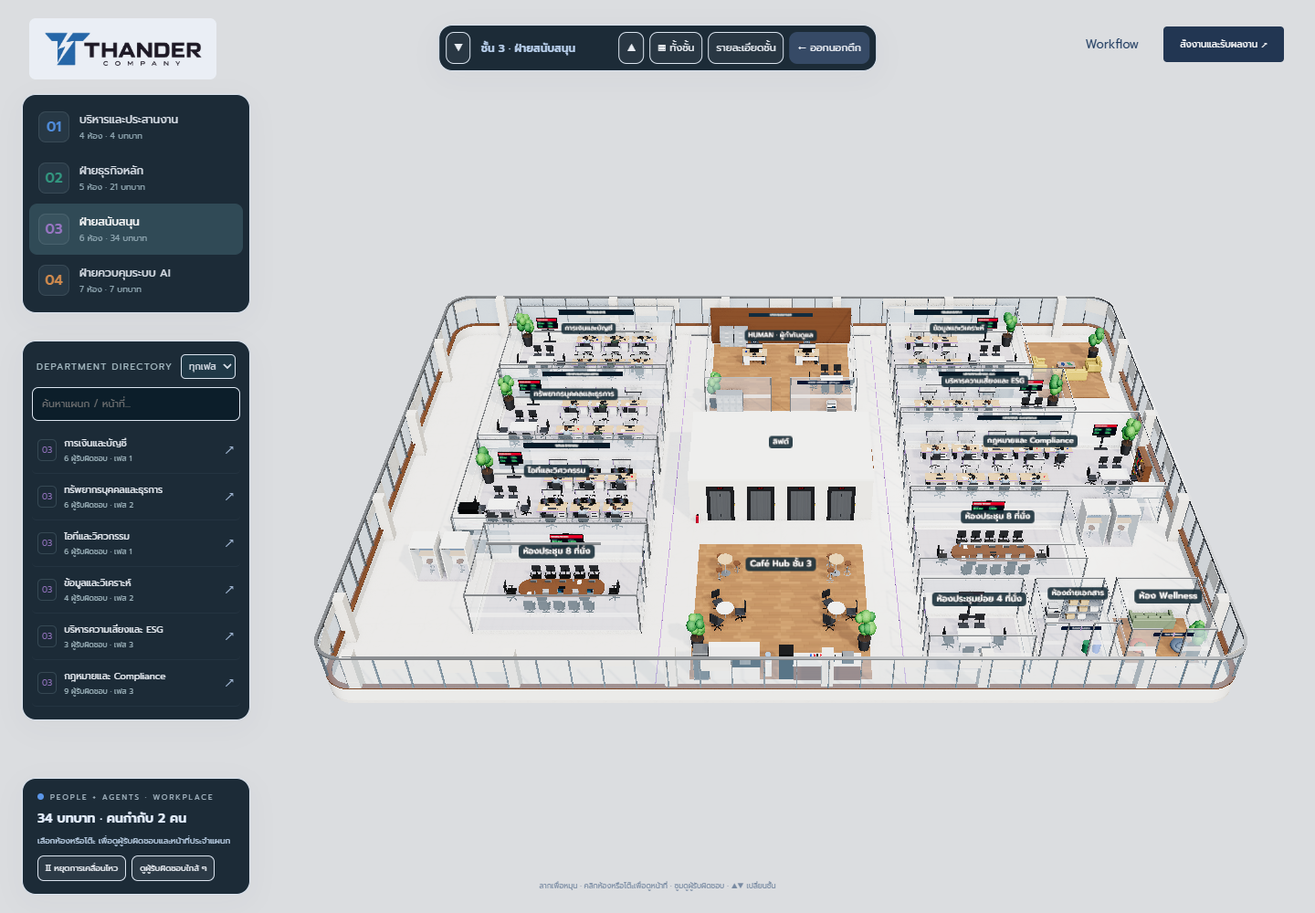
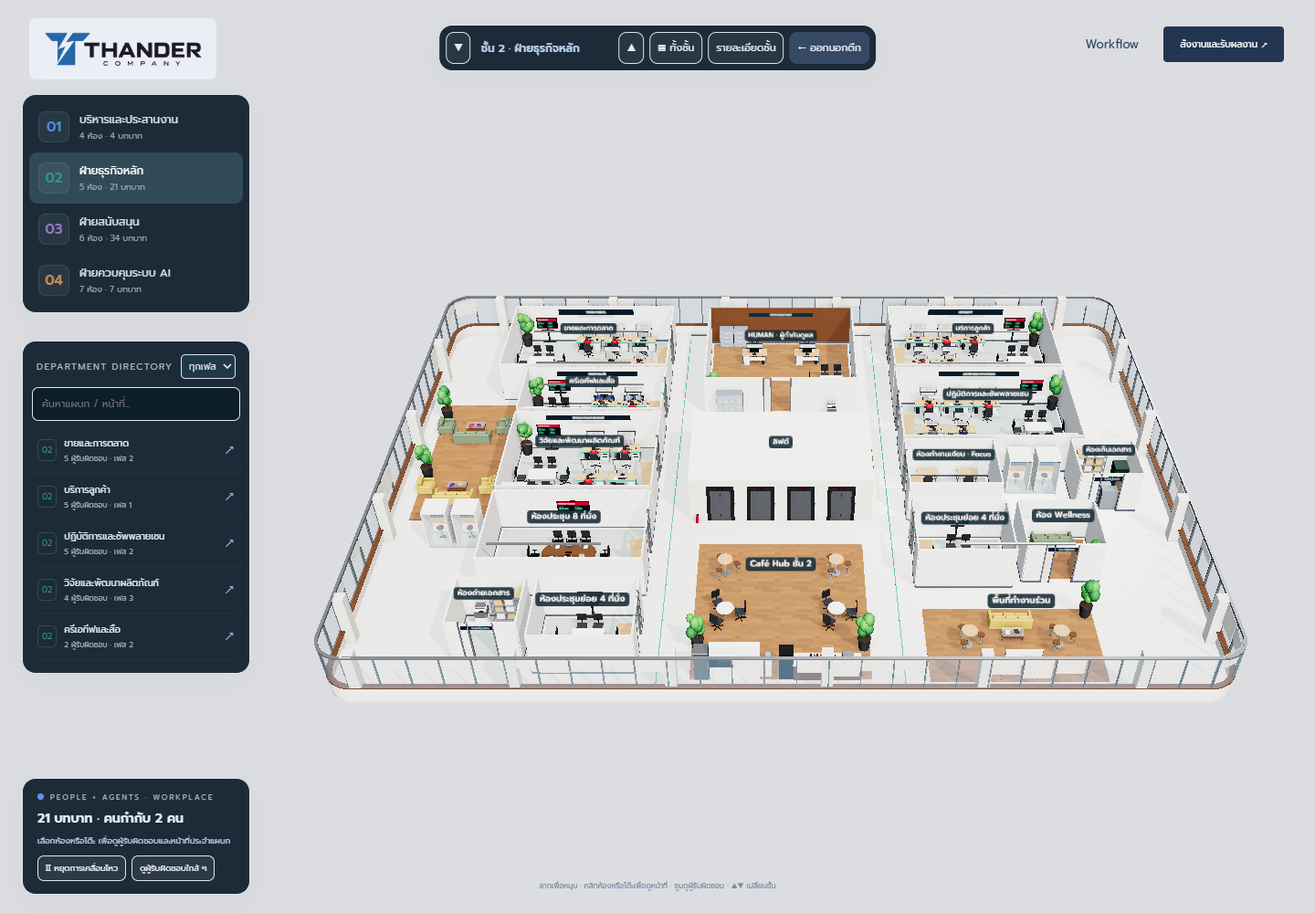
Update THANDER HQ: solid walls, one meeting room per floor, split homepage

diff --git a/Portfolio.html b/Portfolio.html
@@ -3445,7 +3445,7 @@ a:focus-visible, button:focus-visible, input:focus-visible { outline: 2px solid 
           <div style="padding:1.75rem;">
             <span style="display:inline-block;font-size:0.68rem;font-weight:700;letter-spacing:0.12em;color:#93bfff;border:1px solid #93bfff44;border-radius:99px;padding:0.25rem 0.75rem;margin-bottom:1rem;">3D Campus · Workflow · CEO Workspace</span>
             <h3 class="bento-title" style="margin-bottom:0.65rem;">THANDER Company</h3>
-            <p style="font-size:0.9rem;line-height:1.85;color:rgba(248,250,252,0.72);margin:0 0 1.25rem;">สำนักงานใหญ่ 3D ออกแบบใหม่ระดับบริษัทชั้นนำ 4 ชั้น 12 ฝ่าย 66 บทบาท ขนาดห้องตามมาตรฐานออฟฟิศจริง มีล็อบบี้ ห้องประชุม Phone Booth และ Café ทุกชั้น พนักงานเดินไปมาระหว่างแผนกตลอดเวลา และหน้าแรกเห็นคนทำงานผ่านกระจกกับคนเดินเข้า–ออกอาคาร พนักงานทุกคนมีชื่อและชื่อเล่น (สมมติ) บนป้ายตั้งสองหน้าขนาดใหญ่ รูปร่างและการแต่งกายสมจริงตามเพศ และมีบทสนทนาขึ้นเป็นข้อความทุกครั้งที่เดินมารับหรือส่งงานกับ CEO พร้อมคติ “คิดให้ไกล สร้างให้จริง ก้าวสู่อนาคต” ปรับอาคารเป็น 44×32 เมตร ห้องและโต๊ะมีขนาดตามจำนวนคน เพิ่มฝ่ายครีเอทีฟและสื่อชั้น 2 พร้อมกราฟิกดีไซเนอร์และนักตัดต่อวิดีโอ มีโต๊ะ จอออกแบบและไทม์ไลน์ประจำตัว พับกรอบรายละเอียดเพื่อเห็นผังภายในครบทุกชั้น เปิดดูแผนกและหน้าที่ได้เมื่อต้องการ มี Workflow และไดอะแกรม SVG อธิบายการทำงานทุกฝ่าย ห้อง CEO THANDER ชั้น 1 มี CEO ประจำห้องเพียงคนเดียว เมื่อสั่งงาน ตัวแทนแผนกเดินผ่านทางเดินและลิฟต์มารับโจทย์แล้วกลับโต๊ะ เมื่อผลงานพร้อมตรวจจะกลับมานำเสนอ พร้อมเปิดคำตอบและไฟล์ให้ CEO ตรวจรับ มีปุ่มลองฉากตัวอย่างโดยไม่เรียก AI เชื่อมพื้นที่ทำงานส่วนตัว มีตัวเลขสรุป ค้นหา กรอง ลบงาน และกู้คืนจากถังขยะ สั่งงานครีเอทีฟได้เป็นแบบกราฟิก HTML, Storyboard และแผนตัดต่อ (ยังไม่เรนเดอร์ MP4) พร้อมสั่งงาน Gemini ขอแก้ไข ตรวจรับ และดาวน์โหลดไฟล์ภาษาไทยสำหรับ Excel กำหนดวันรับงานแบบวัน/เดือน/ปี พ.ศ. เช่น 21/10/2569 แนบเอกสารอ้างอิงสูงสุด 3 ไฟล์ รวม 10 MB ผ่านพื้นที่ส่วนตัว พร้อมแสดงขนาดและความคืบหน้า มีตัวอย่างแผนคอนเทนต์ 7 วันให้ทดลองโดยไม่ใช้ AI ส่วนงาน AI จริงใช้โควต้า Free Tier ของโปรเจกต์ Google ที่ไม่เปิด Billing และไม่สลับไป OpenAI</p>
+            <p style="font-size:0.9rem;line-height:1.85;color:rgba(248,250,252,0.72);margin:0 0 1.25rem;">สำนักงานใหญ่ 3D ออกแบบใหม่ระดับบริษัทชั้นนำ 4 ชั้น 12 ฝ่าย 66 บทบาท ขนาดห้องตามมาตรฐานออฟฟิศจริง มีล็อบบี้ ห้องประชุมชั้นละห้อง (12/8/6 ที่นั่ง) ผนังห้องและผนังอาคารแบบทึบ Phone Booth และ Café ทุกชั้น พนักงานเดินไปมาระหว่างแผนกตลอดเวลา หน้าแรกแบ่งฝั่งข้อความกับภาพ 3D ไม่ทับกัน และมีคนเดินเข้า–ออกอาคาร พนักงานทุกคนมีชื่อและชื่อเล่น (สมมติ) บนป้ายตั้งสองหน้าขนาดใหญ่ รูปร่างและการแต่งกายสมจริงตามเพศ และมีบทสนทนาขึ้นเป็นข้อความทุกครั้งที่เดินมารับหรือส่งงานกับ CEO พร้อมคติ “คิดให้ไกล สร้างให้จริง ก้าวสู่อนาคต” ปรับอาคารเป็น 44×32 เมตร ห้องและโต๊ะมีขนาดตามจำนวนคน เพิ่มฝ่ายครีเอทีฟและสื่อชั้น 2 พร้อมกราฟิกดีไซเนอร์และนักตัดต่อวิดีโอ มีโต๊ะ จอออกแบบและไทม์ไลน์ประจำตัว พับกรอบรายละเอียดเพื่อเห็นผังภายในครบทุกชั้น เปิดดูแผนกและหน้าที่ได้เมื่อต้องการ มี Workflow และไดอะแกรม SVG อธิบายการทำงานทุกฝ่าย ห้อง CEO THANDER ชั้น 1 มี CEO ประจำห้องเพียงคนเดียว เมื่อสั่งงาน ตัวแทนแผนกเดินผ่านทางเดินและลิฟต์มารับโจทย์แล้วกลับโต๊ะ เมื่อผลงานพร้อมตรวจจะกลับมานำเสนอ พร้อมเปิดคำตอบและไฟล์ให้ CEO ตรวจรับ มีปุ่มลองฉากตัวอย่างโดยไม่เรียก AI เชื่อมพื้นที่ทำงานส่วนตัว มีตัวเลขสรุป ค้นหา กรอง ลบงาน และกู้คืนจากถังขยะ สั่งงานครีเอทีฟได้เป็นแบบกราฟิก HTML, Storyboard และแผนตัดต่อ (ยังไม่เรนเดอร์ MP4) พร้อมสั่งงาน Gemini ขอแก้ไข ตรวจรับ และดาวน์โหลดไฟล์ภาษาไทยสำหรับ Excel กำหนดวันรับงานแบบวัน/เดือน/ปี พ.ศ. เช่น 21/10/2569 แนบเอกสารอ้างอิงสูงสุด 3 ไฟล์ รวม 10 MB ผ่านพื้นที่ส่วนตัว พร้อมแสดงขนาดและความคืบหน้า มีตัวอย่างแผนคอนเทนต์ 7 วันให้ทดลองโดยไม่ใช้ AI ส่วนงาน AI จริงใช้โควต้า Free Tier ของโปรเจกต์ Google ที่ไม่เปิด Billing และไม่สลับไป OpenAI</p>
             <div style="display:flex;flex-wrap:wrap;gap:0.4rem;margin-bottom:1.5rem;">
               <span style="font-size:0.7rem;padding:0.25rem 0.7rem;border:1px solid #93bfff4d;color:#93bfff;border-radius:99px;">Three.js</span><span style="font-size:0.7rem;padding:0.25rem 0.7rem;border:1px solid #93bfff4d;color:#93bfff;border-radius:99px;">Gemini API</span><span style="font-size:0.7rem;padding:0.25rem 0.7rem;border:1px solid #93bfff4d;color:#93bfff;border-radius:99px;">Vercel Functions</span><span style="font-size:0.7rem;padding:0.25rem 0.7rem;border:1px solid #93bfff4d;color:#93bfff;border-radius:99px;">Private Blob</span>
             </div>
@@ -3458,7 +3458,7 @@ a:focus-visible, button:focus-visible, input:focus-visible { outline: 2px solid 
               <a href="https://thander-company-ai-campus.vercel.app/#room=B-5" target="_blank" rel="noopener" style="color:#93bfff;font-size:0.82rem;">เข้าห้องครีเอทีฟและสื่อ ↗</a>
               <a href="images/projects/thander-creative-studio.png" target="_blank" rel="noopener" style="color:#93bfff;font-size:0.82rem;">ดูภาพห้องกราฟิกและวิดีโอ ↗</a>
               <a href="https://thander-company-ai-campus.vercel.app/#floor=2" target="_blank" rel="noopener" style="color:#93bfff;font-size:0.82rem;">พบพนักงานทุกคนพร้อมชื่อ ↗</a>
-              <a href="images/projects/thander-hq-facade.png" target="_blank" rel="noopener" style="color:#93bfff;font-size:0.82rem;">ดูอาคารใหม่และคนทำงานผ่านกระจก ↗</a>
+              <a href="images/projects/thander-hq-facade.png" target="_blank" rel="noopener" style="color:#93bfff;font-size:0.82rem;">ดูอาคารใหม่ ↗</a>
               <a href="images/projects/thander-hq-lobby.png" target="_blank" rel="noopener" style="color:#93bfff;font-size:0.82rem;">ดูล็อบบี้ชั้น 1 ↗</a>
               <a href="images/projects/thander-floor-plan.png" target="_blank" rel="noopener" style="color:#93bfff;font-size:0.82rem;">ดูผังชั้นขนาดห้องจริง ↗</a>
               <a href="images/projects/thander-ceo-office.png" target="_blank" rel="noopener" style="color:#93bfff;font-size:0.82rem;">ดูห้อง CEO ใหม่ ↗</a>

diff --git a/index.html b/index.html
@@ -3445,7 +3445,7 @@ a:focus-visible, button:focus-visible, input:focus-visible { outline: 2px solid 
           <div style="padding:1.75rem;">
             <span style="display:inline-block;font-size:0.68rem;font-weight:700;letter-spacing:0.12em;color:#93bfff;border:1px solid #93bfff44;border-radius:99px;padding:0.25rem 0.75rem;margin-bottom:1rem;">3D Campus · Workflow · CEO Workspace</span>
             <h3 class="bento-title" style="margin-bottom:0.65rem;">THANDER Company</h3>
-            <p style="font-size:0.9rem;line-height:1.85;color:rgba(248,250,252,0.72);margin:0 0 1.25rem;">สำนักงานใหญ่ 3D ออกแบบใหม่ระดับบริษัทชั้นนำ 4 ชั้น 12 ฝ่าย 66 บทบาท ขนาดห้องตามมาตรฐานออฟฟิศจริง มีล็อบบี้ ห้องประชุม Phone Booth และ Café ทุกชั้น พนักงานเดินไปมาระหว่างแผนกตลอดเวลา และหน้าแรกเห็นคนทำงานผ่านกระจกกับคนเดินเข้า–ออกอาคาร พนักงานทุกคนมีชื่อและชื่อเล่น (สมมติ) บนป้ายตั้งสองหน้าขนาดใหญ่ รูปร่างและการแต่งกายสมจริงตามเพศ และมีบทสนทนาขึ้นเป็นข้อความทุกครั้งที่เดินมารับหรือส่งงานกับ CEO พร้อมคติ “คิดให้ไกล สร้างให้จริง ก้าวสู่อนาคต” ปรับอาคารเป็น 44×32 เมตร ห้องและโต๊ะมีขนาดตามจำนวนคน เพิ่มฝ่ายครีเอทีฟและสื่อชั้น 2 พร้อมกราฟิกดีไซเนอร์และนักตัดต่อวิดีโอ มีโต๊ะ จอออกแบบและไทม์ไลน์ประจำตัว พับกรอบรายละเอียดเพื่อเห็นผังภายในครบทุกชั้น เปิดดูแผนกและหน้าที่ได้เมื่อต้องการ มี Workflow และไดอะแกรม SVG อธิบายการทำงานทุกฝ่าย ห้อง CEO THANDER ชั้น 1 มี CEO ประจำห้องเพียงคนเดียว เมื่อสั่งงาน ตัวแทนแผนกเดินผ่านทางเดินและลิฟต์มารับโจทย์แล้วกลับโต๊ะ เมื่อผลงานพร้อมตรวจจะกลับมานำเสนอ พร้อมเปิดคำตอบและไฟล์ให้ CEO ตรวจรับ มีปุ่มลองฉากตัวอย่างโดยไม่เรียก AI เชื่อมพื้นที่ทำงานส่วนตัว มีตัวเลขสรุป ค้นหา กรอง ลบงาน และกู้คืนจากถังขยะ สั่งงานครีเอทีฟได้เป็นแบบกราฟิก HTML, Storyboard และแผนตัดต่อ (ยังไม่เรนเดอร์ MP4) พร้อมสั่งงาน Gemini ขอแก้ไข ตรวจรับ และดาวน์โหลดไฟล์ภาษาไทยสำหรับ Excel กำหนดวันรับงานแบบวัน/เดือน/ปี พ.ศ. เช่น 21/10/2569 แนบเอกสารอ้างอิงสูงสุด 3 ไฟล์ รวม 10 MB ผ่านพื้นที่ส่วนตัว พร้อมแสดงขนาดและความคืบหน้า มีตัวอย่างแผนคอนเทนต์ 7 วันให้ทดลองโดยไม่ใช้ AI ส่วนงาน AI จริงใช้โควต้า Free Tier ของโปรเจกต์ Google ที่ไม่เปิด Billing และไม่สลับไป OpenAI</p>
+            <p style="font-size:0.9rem;line-height:1.85;color:rgba(248,250,252,0.72);margin:0 0 1.25rem;">สำนักงานใหญ่ 3D ออกแบบใหม่ระดับบริษัทชั้นนำ 4 ชั้น 12 ฝ่าย 66 บทบาท ขนาดห้องตามมาตรฐานออฟฟิศจริง มีล็อบบี้ ห้องประชุมชั้นละห้อง (12/8/6 ที่นั่ง) ผนังห้องและผนังอาคารแบบทึบ Phone Booth และ Café ทุกชั้น พนักงานเดินไปมาระหว่างแผนกตลอดเวลา หน้าแรกแบ่งฝั่งข้อความกับภาพ 3D ไม่ทับกัน และมีคนเดินเข้า–ออกอาคาร พนักงานทุกคนมีชื่อและชื่อเล่น (สมมติ) บนป้ายตั้งสองหน้าขนาดใหญ่ รูปร่างและการแต่งกายสมจริงตามเพศ และมีบทสนทนาขึ้นเป็นข้อความทุกครั้งที่เดินมารับหรือส่งงานกับ CEO พร้อมคติ “คิดให้ไกล สร้างให้จริง ก้าวสู่อนาคต” ปรับอาคารเป็น 44×32 เมตร ห้องและโต๊ะมีขนาดตามจำนวนคน เพิ่มฝ่ายครีเอทีฟและสื่อชั้น 2 พร้อมกราฟิกดีไซเนอร์และนักตัดต่อวิดีโอ มีโต๊ะ จอออกแบบและไทม์ไลน์ประจำตัว พับกรอบรายละเอียดเพื่อเห็นผังภายในครบทุกชั้น เปิดดูแผนกและหน้าที่ได้เมื่อต้องการ มี Workflow และไดอะแกรม SVG อธิบายการทำงานทุกฝ่าย ห้อง CEO THANDER ชั้น 1 มี CEO ประจำห้องเพียงคนเดียว เมื่อสั่งงาน ตัวแทนแผนกเดินผ่านทางเดินและลิฟต์มารับโจทย์แล้วกลับโต๊ะ เมื่อผลงานพร้อมตรวจจะกลับมานำเสนอ พร้อมเปิดคำตอบและไฟล์ให้ CEO ตรวจรับ มีปุ่มลองฉากตัวอย่างโดยไม่เรียก AI เชื่อมพื้นที่ทำงานส่วนตัว มีตัวเลขสรุป ค้นหา กรอง ลบงาน และกู้คืนจากถังขยะ สั่งงานครีเอทีฟได้เป็นแบบกราฟิก HTML, Storyboard และแผนตัดต่อ (ยังไม่เรนเดอร์ MP4) พร้อมสั่งงาน Gemini ขอแก้ไข ตรวจรับ และดาวน์โหลดไฟล์ภาษาไทยสำหรับ Excel กำหนดวันรับงานแบบวัน/เดือน/ปี พ.ศ. เช่น 21/10/2569 แนบเอกสารอ้างอิงสูงสุด 3 ไฟล์ รวม 10 MB ผ่านพื้นที่ส่วนตัว พร้อมแสดงขนาดและความคืบหน้า มีตัวอย่างแผนคอนเทนต์ 7 วันให้ทดลองโดยไม่ใช้ AI ส่วนงาน AI จริงใช้โควต้า Free Tier ของโปรเจกต์ Google ที่ไม่เปิด Billing และไม่สลับไป OpenAI</p>
             <div style="display:flex;flex-wrap:wrap;gap:0.4rem;margin-bottom:1.5rem;">
               <span style="font-size:0.7rem;padding:0.25rem 0.7rem;border:1px solid #93bfff4d;color:#93bfff;border-radius:99px;">Three.js</span><span style="font-size:0.7rem;padding:0.25rem 0.7rem;border:1px solid #93bfff4d;color:#93bfff;border-radius:99px;">Gemini API</span><span style="font-size:0.7rem;padding:0.25rem 0.7rem;border:1px solid #93bfff4d;color:#93bfff;border-radius:99px;">Vercel Functions</span><span style="font-size:0.7rem;padding:0.25rem 0.7rem;border:1px solid #93bfff4d;color:#93bfff;border-radius:99px;">Private Blob</span>
             </div>
@@ -3458,7 +3458,7 @@ a:focus-visible, button:focus-visible, input:focus-visible { outline: 2px solid 
               <a href="https://thander-company-ai-campus.vercel.app/#room=B-5" target="_blank" rel="noopener" style="color:#93bfff;font-size:0.82rem;">เข้าห้องครีเอทีฟและสื่อ ↗</a>
               <a href="images/projects/thander-creative-studio.png" target="_blank" rel="noopener" style="color:#93bfff;font-size:0.82rem;">ดูภาพห้องกราฟิกและวิดีโอ ↗</a>
               <a href="https://thander-company-ai-campus.vercel.app/#floor=2" target="_blank" rel="noopener" style="color:#93bfff;font-size:0.82rem;">พบพนักงานทุกคนพร้อมชื่อ ↗</a>
-              <a href="images/projects/thander-hq-facade.png" target="_blank" rel="noopener" style="color:#93bfff;font-size:0.82rem;">ดูอาคารใหม่และคนทำงานผ่านกระจก ↗</a>
+              <a href="images/projects/thander-hq-facade.png" target="_blank" rel="noopener" style="color:#93bfff;font-size:0.82rem;">ดูอาคารใหม่ ↗</a>
               <a href="images/projects/thander-hq-lobby.png" target="_blank" rel="noopener" style="color:#93bfff;font-size:0.82rem;">ดูล็อบบี้ชั้น 1 ↗</a>
               <a href="images/projects/thander-floor-plan.png" target="_blank" rel="noopener" style="color:#93bfff;font-size:0.82rem;">ดูผังชั้นขนาดห้องจริง ↗</a>
               <a href="images/projects/thander-ceo-office.png" target="_blank" rel="noopener" style="color:#93bfff;font-size:0.82rem;">ดูห้อง CEO ใหม่ ↗</a>

diff --git a/README.md b/README.md
@@ -43,7 +43,7 @@
 
 | Project | Description |
 |---|---|
-| [THANDER Company](https://thander-company-ai-campus.vercel.app/) | สำนักงานใหญ่ 3D ออกแบบใหม่ระดับบริษัทชั้นนำ 4 ชั้น 12 ฝ่าย 66 บทบาท (ขนาดห้องตามมาตรฐาน ล็อบบี้ ห้องประชุม Café พนักงานเดินไปมาตลอดเวลา หน้าแรกเห็นคนผ่านกระจก) พนักงานทุกคนมีชื่อ/ชื่อเล่นสมมติบนป้ายตั้งขนาดใหญ่ การ์ด และการค้นหา ตัวละครสมจริงตามเพศ และบทสนทนาตอนเดินรับ–ส่งงานกับ CEO คติ “คิดให้ไกล สร้างให้จริง ก้าวสู่อนาคต” มุมมองมือถือใหญ่ขึ้น ผังทุกชั้นเห็นครบด้วยกรอบรายละเอียดที่พับได้ พร้อม [Workflow และหน้าที่แต่ละฝ่าย](https://thander-company-ai-campus.vercel.app/workflow.html#departmentDirectory) และห้องทำงาน CEO ส่วนตัวที่มีตัวเลขสรุป ค้นหาและกรองสถานะงาน ลบ/กู้คืนผ่านถังขยะ พร้อมฉากตัวแทนแผนกเดินมารับโจทย์และกลับมานำเสนอเมื่อผลงานพร้อมตรวจ พร้อมห้อง CEO THANDER ในชั้น 1 และฝ่ายครีเอทีฟและสื่อชั้น 2 (กราฟิกดีไซเนอร์/นักตัดต่อวิดีโอ) อาคาร 44×32 เมตร ห้องตามจำนวนคน สั่ง Gemini ขอแก้ไข ตรวจรับ และดาวน์โหลดภาษาไทยสำหรับ Excel รวม [ตัวอย่างสั่งงานแบบไม่เรียก AI](https://thander-company-ai-campus.vercel.app/workflow.html#practiceLab) (Free Tier ต้องใช้โปรเจกต์ Google ที่ไม่เปิด Billing; โควต้าตามบัญชี) (Private source) |
+| [THANDER Company](https://thander-company-ai-campus.vercel.app/) | สำนักงานใหญ่ 3D ออกแบบใหม่ระดับบริษัทชั้นนำ 4 ชั้น 12 ฝ่าย 66 บทบาท (ขนาดห้องตามมาตรฐาน ล็อบบี้ ห้องประชุมชั้นละห้อง ผนังทึบ Café พนักงานเดินไปมาตลอดเวลา หน้าแรกแบ่งฝั่งข้อความ/ภาพ 3D) พนักงานทุกคนมีชื่อ/ชื่อเล่นสมมติบนป้ายตั้งขนาดใหญ่ การ์ด และการค้นหา ตัวละครสมจริงตามเพศ และบทสนทนาตอนเดินรับ–ส่งงานกับ CEO คติ “คิดให้ไกล สร้างให้จริง ก้าวสู่อนาคต” มุมมองมือถือใหญ่ขึ้น ผังทุกชั้นเห็นครบด้วยกรอบรายละเอียดที่พับได้ พร้อม [Workflow และหน้าที่แต่ละฝ่าย](https://thander-company-ai-campus.vercel.app/workflow.html#departmentDirectory) และห้องทำงาน CEO ส่วนตัวที่มีตัวเลขสรุป ค้นหาและกรองสถานะงาน ลบ/กู้คืนผ่านถังขยะ พร้อมฉากตัวแทนแผนกเดินมารับโจทย์และกลับมานำเสนอเมื่อผลงานพร้อมตรวจ พร้อมห้อง CEO THANDER ในชั้น 1 และฝ่ายครีเอทีฟและสื่อชั้น 2 (กราฟิกดีไซเนอร์/นักตัดต่อวิดีโอ) อาคาร 44×32 เมตร ห้องตามจำนวนคน สั่ง Gemini ขอแก้ไข ตรวจรับ และดาวน์โหลดภาษาไทยสำหรับ Excel รวม [ตัวอย่างสั่งงานแบบไม่เรียก AI](https://thander-company-ai-campus.vercel.app/workflow.html#practiceLab) (Free Tier ต้องใช้โปรเจกต์ Google ที่ไม่เปิด Billing; โควต้าตามบัญชี) (Private source) |
 | [Thander Usage](https://thander-usage.vercel.app/) | Windows desktop robot companion for Claude/Codex usage, articulated greeting and interactive web demo. [Source](https://github.com/tanakrthum254614-max/thander-usage) |
 | [Gold Signal](https://github.com/tanakrthum254614-max/gold-signal) | แพลตฟอร์มสัญญาณการซื้อขายทองคำแบบเรียลไทม์ พร้อมผลทดสอบย้อนหลังและการเปิดเผยผลการซื้อขายจริง |
 | [IT Asset Tracker](https://github.com/tanakrthum254614-max/it-asset-tracker) | ระบบทะเบียนครุภัณฑ์ไอทีพร้อมป้าย QR และการติดตามการรับประกัน |
